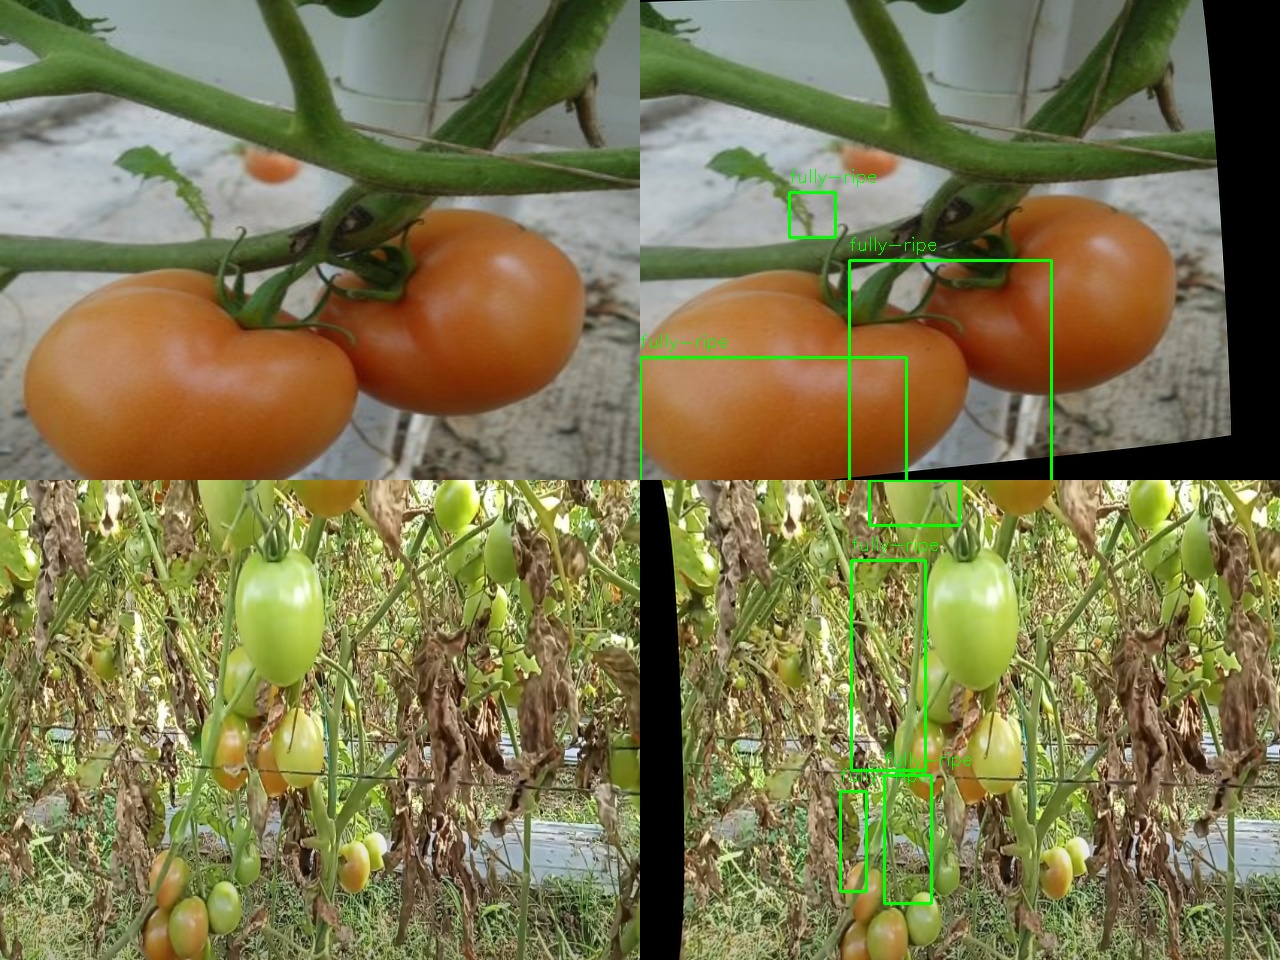
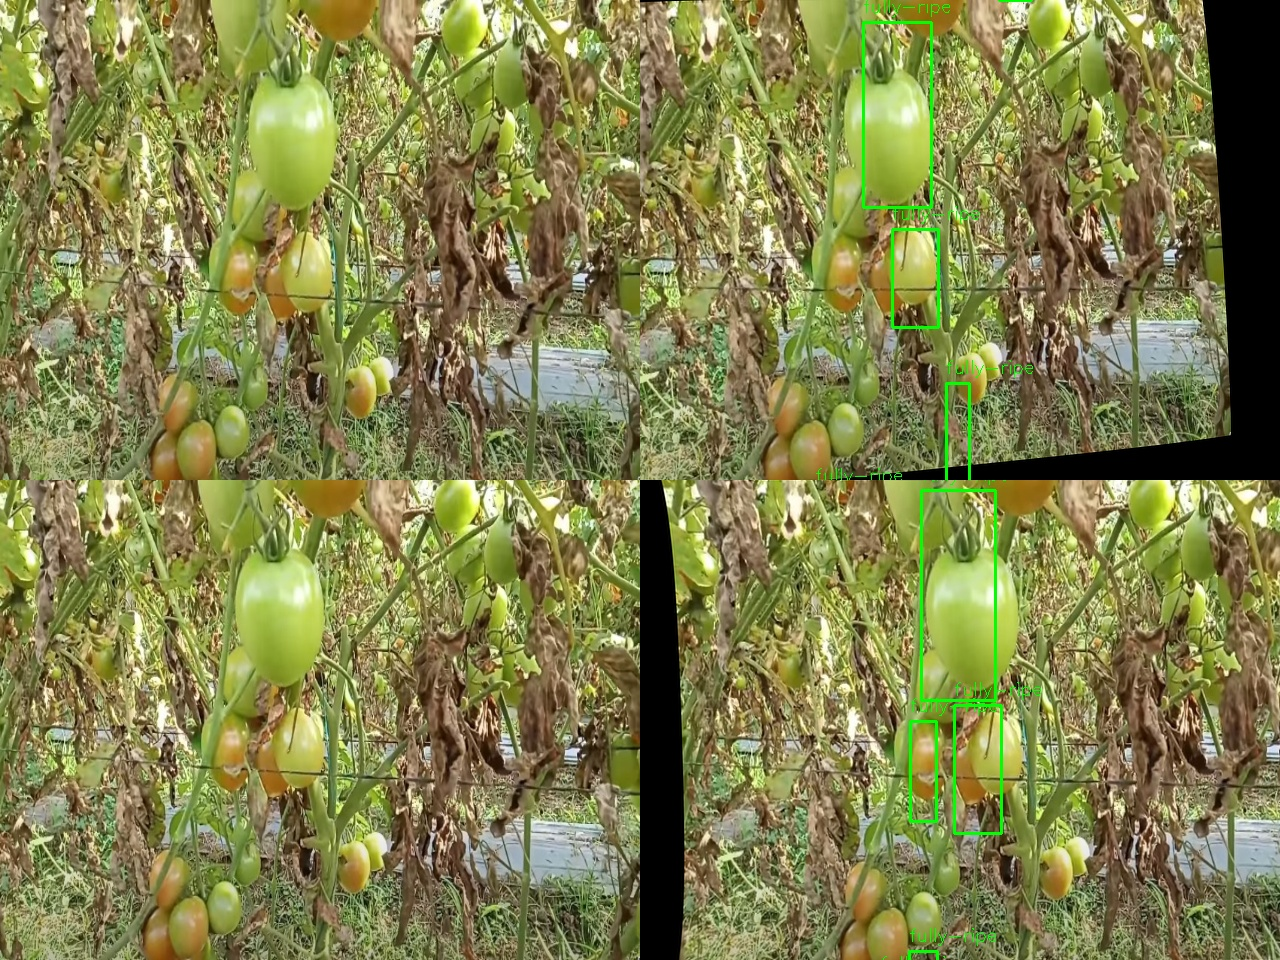
Add utils.py to draw predictions

diff --git a/Inference/main.py b/Inference/main.py
@@ -1,14 +1,14 @@
 from modul.tomato_detection.TomatoModel import TomatoModel
 import pprint
 import cv2
-import numpy as np
 
 from modul.tomato_detection.tools import find_hsi_value
 from modul.stereo_vision import calibration
+from utils import draw_predictions
 
 model = TomatoModel(onnx_path="model/yolov4_1_3_416_416_static.onnx")
 
-imgL = cv2.imread("test_image/test_image.jpg", 1)
+imgL = cv2.imread("test_image/sample_left.jpeg", 1)
 imgR = cv2.imread("test_image/sample_right.jpeg", 1)
 
 ## Calibration
@@ -22,18 +22,6 @@ imgR_pred = model.predict(imgR_calibrated)
 pprint.pprint(imgL_pred)
 pprint.pprint(imgR_pred)
 
- # RESULT DEBUG
-def draw_bbox(img, prediction):
-    for result in prediction['results']:
-        x1, y1, x2, y2 = result['bounding_box'] 
-        cv2.rectangle(img,(x1, y1),(x2, y2), (0,255,0), 2)
-        cv2.putText(img, result['label'], (x1, y1-10), 0, 0.6, (0,255,0))
-        # BUG: bbox is shifted to bottom left when getting plotted
-
-draw_bbox(imgL_calibrated, imgL_pred)
-draw_bbox(imgR_calibrated, imgR_pred)
-imgL_concat = np.concatenate((imgL, imgL_calibrated), axis=1)
-imgR_concat = np.concatenate((imgR, imgR_calibrated), axis=1)
-img_concat = np.concatenate((imgL_concat, imgR_concat), axis=0)
-
-cv2.imwrite('predictions.jpg',img_concat)
+ # PREDICTION DEBUG
+draw_predictions(imgL, imgL_calibrated, imgL_pred,
+                 imgR, imgR_calibrated, imgR_pred)

diff --git a/Inference/utils.py b/Inference/utils.py
@@ -1,0 +1,23 @@
+import cv2
+import numpy as np
+
+def draw_bbox(img, prediction):
+    OFFSET = 70
+    for result in prediction['results']:
+        x1, y1, x2, y2 = result['bounding_box'] 
+        x1 += OFFSET
+        x2 += OFFSET
+        y1 -= OFFSET
+        y2 -= OFFSET
+        cv2.rectangle(img,(x1, y1),(x2, y2), (0,255,0), 2)
+        cv2.putText(img, result['label'], (x1, y1-10), 0, 0.6, (0,255,0))
+        # BUG: bbox is shifted to bottom left when getting plotted
+
+def draw_predictions(imgL, imgL_calibrated, imgL_pred, imgR, imgR_calibrated, imgR_pred):
+    draw_bbox(imgL_calibrated, imgL_pred)
+    draw_bbox(imgR_calibrated, imgR_pred)
+    imgL_concat = np.concatenate((imgL, imgL_calibrated), axis=1)
+    imgR_concat = np.concatenate((imgR, imgR_calibrated), axis=1)
+    img_concat = np.concatenate((imgL_concat, imgR_concat), axis=0)
+
+    cv2.imwrite('predictions.jpg',img_concat)
